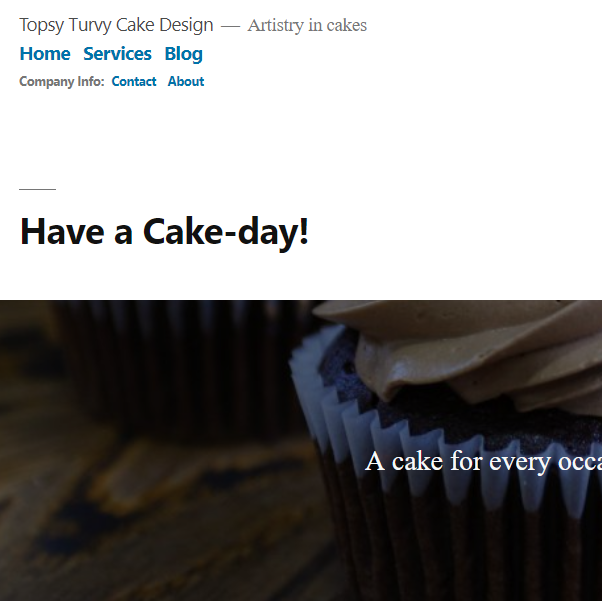
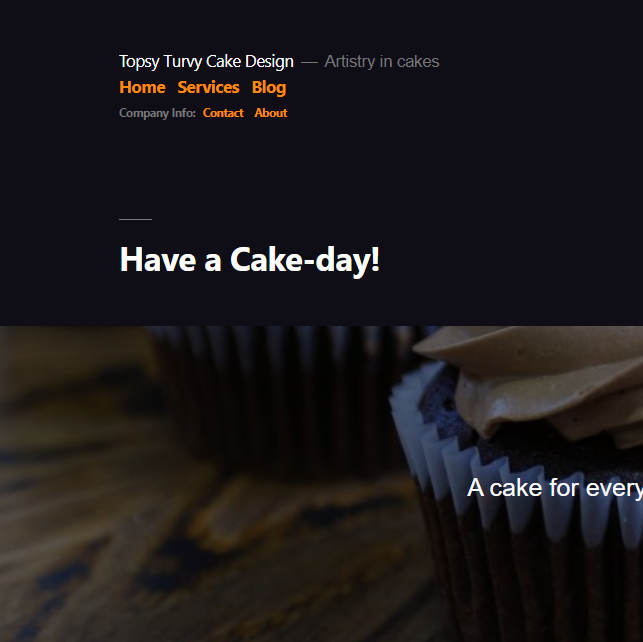
Added README
Added Readme and Updated the screenshot to dark theme.

diff --git a/README.md b/README.md
@@ -1,0 +1,26 @@
+# Twenty Nineteen Dark
+
+A child theme of Twenty Nineteen  
+This is just a test theme for created learning purpose.
+
+## Pre-requisite
+
+The Twenty Nineteen theme should be installed in your WordPress installation.  
+If you don't have it installed, you can download it from [WordPress's Theme Directory](http://https://wordpress.org/themes/twentynineteen/)
+
+## Installation
+
+Run the following command inside the theme folder of your WordPress Installation:
+
+```bash
+git clone https://github.com/Tapaj/twenty-nineteen-dark.git
+```
+
+## Changes
+
+- Colour scheme
+- Secondary Menu for Company Information
+- Customized 404 Page
+- Modified Author Byline in Posts
+- Selective Footer Display
+- Redesigned Blockquotes
